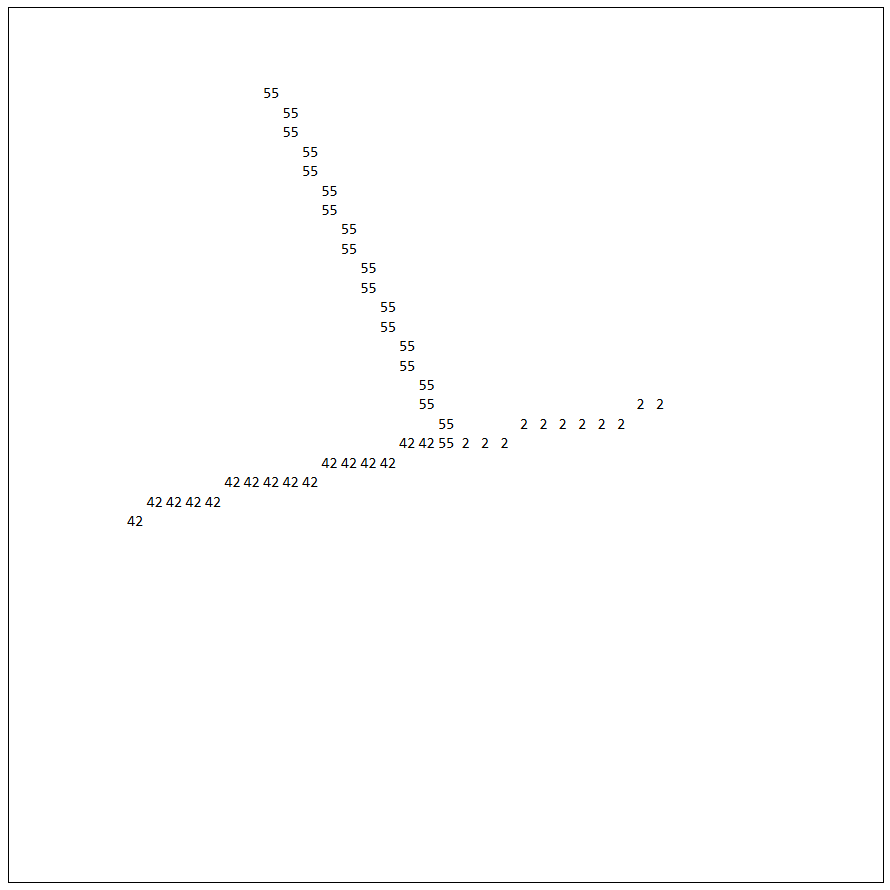
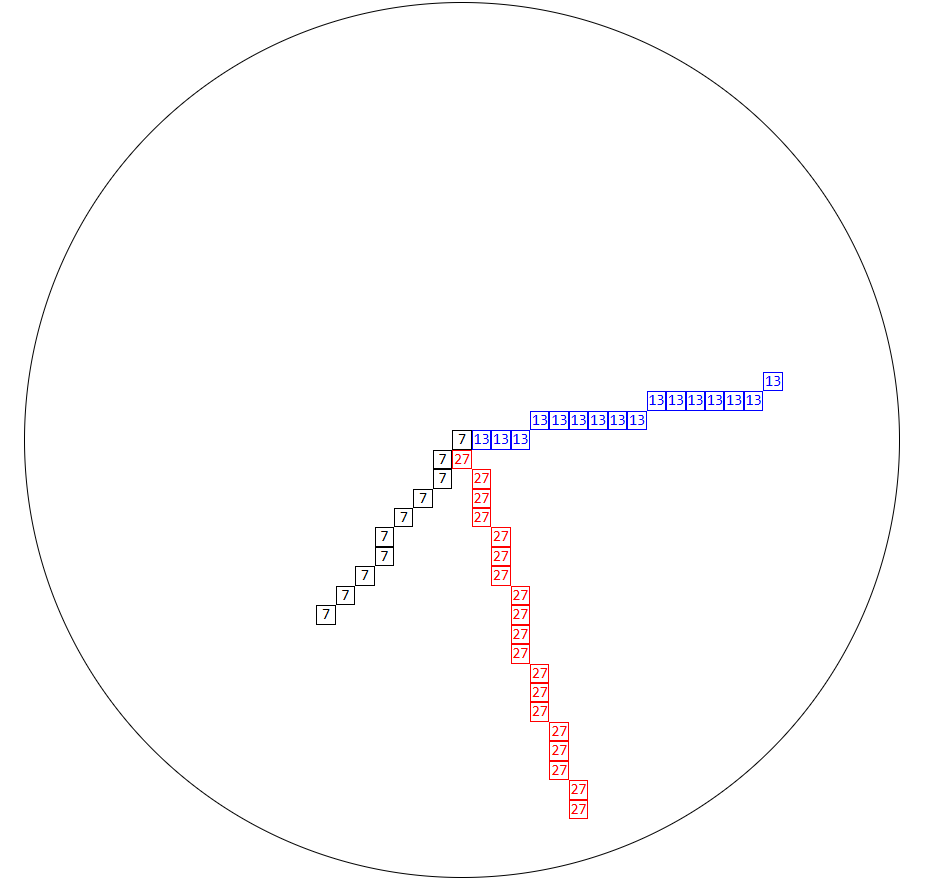
Add styling

diff --git a/clock.ts b/clock.ts
@@ -32,7 +32,7 @@ for (let r = 0; r < GRID_SIZE; r++) {
 }
 
 // Plot points
-const plot = (ratio: number, len: number, val: number) => {
+const plot = (ratio: number, len: number, val: number, clazz: string) => {
     const angle = 2 * Math.PI * ratio;
 
     // Lerp from (0,0) to (end_x, end_y)
@@ -53,6 +53,7 @@ const plot = (ratio: number, len: number, val: number) => {
 	const c = Math.round(x) + Math.floor(RADIUS);
 
 	cells[r][c].textContent = `${val}`;
+	cells[r][c].className = clazz;
     }
 }
 
@@ -80,13 +81,14 @@ const render = () => {
     for (let r = 0; r < GRID_SIZE; r++) {
 	for (let c = 0; c < GRID_SIZE; c++) {
 	    cells[r][c].textContent = "";
+	    cells[r][c].className = "";
 	}
     }
 
     // Plot lines
-    plot(hours_ratio, HOUR_LEN, hours);
-    plot(minutes_ratio, MINUTE_LEN, minutes);
-    plot(seconds_ratio, SECOND_LEN, seconds);
+    plot(seconds_ratio, SECOND_LEN, seconds, 'second');
+    plot(minutes_ratio, MINUTE_LEN, minutes, 'minute');
+    plot(hours_ratio, HOUR_LEN, hours, 'hour');
             
     requestAnimationFrame(render);
 }

diff --git a/styles.css b/styles.css
@@ -19,6 +19,7 @@ body {
     grid-template-columns: repeat(var(--GRID-SIZE), var(--CELL-SIZE));
     grid-template-rows: repeat(var(--GRID-SIZE), var(--CELL-SIZE));
     border: 1px solid black;
+    border-radius: 100%;
 }
 
 #grid div {
@@ -27,4 +28,19 @@ body {
     font-family: monospace;
     font-size: calc(0.75 * var(--CELL-SIZE));
     text-align: center;
+}
+
+.second {
+    color: red;
+    border: 1px solid red;
+}
+
+.minute {
+    color: blue;
+    border: 1px solid blue;
+}
+
+.hour {
+    color: black;
+    border: 1px solid black;
 }
